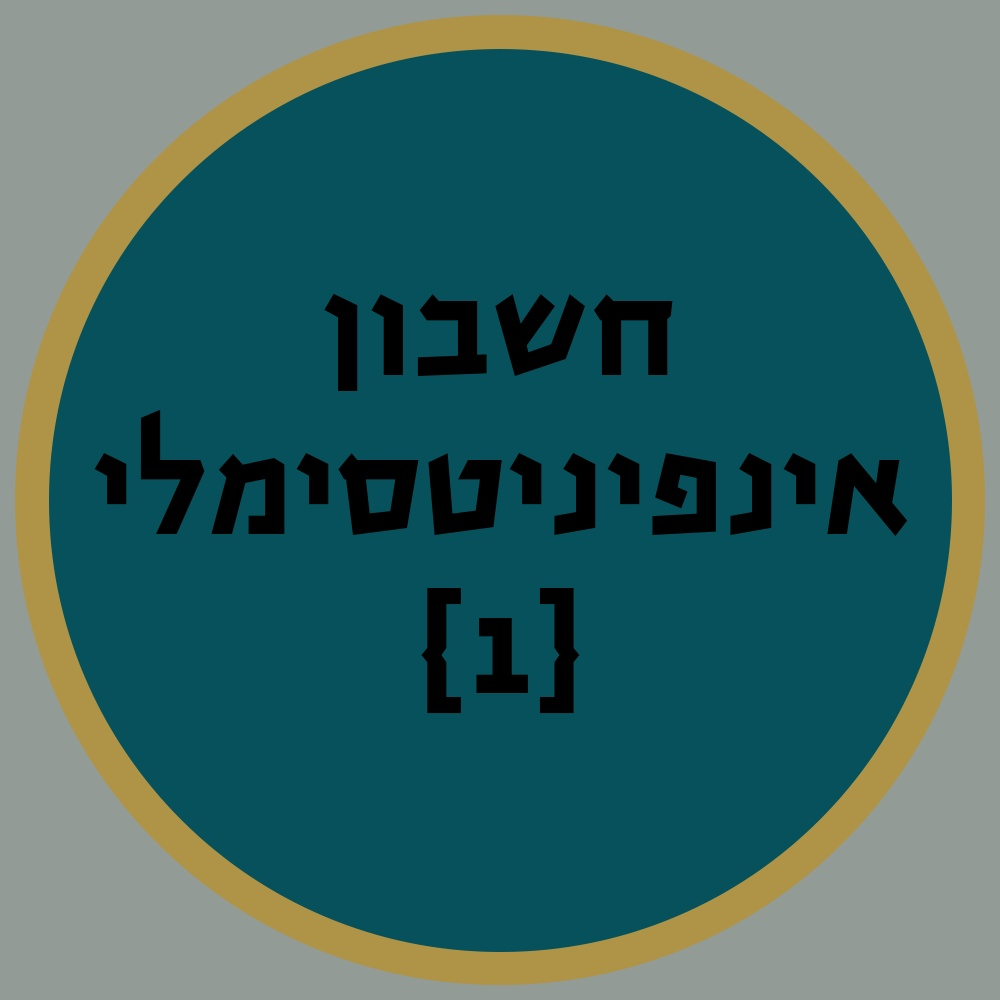
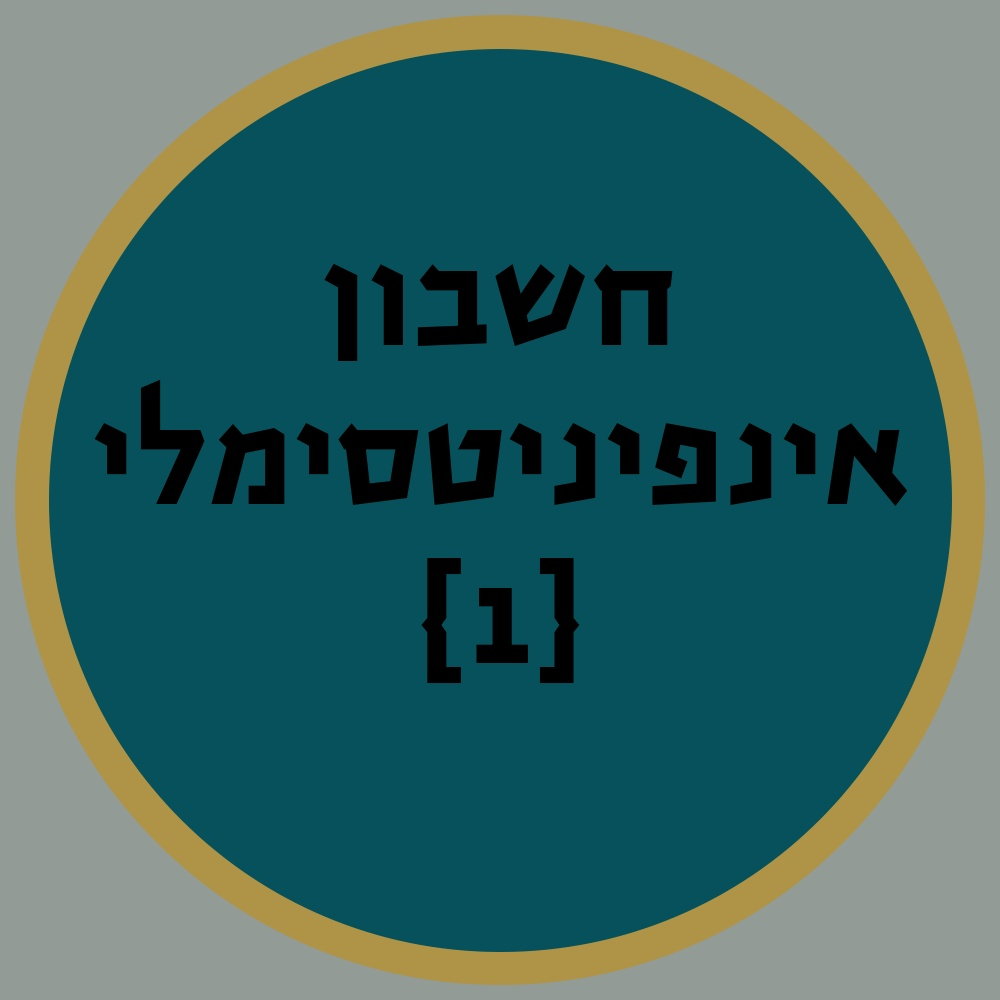
does this look good?

Changed region(s): [[0.093, 0.248, 0.899, 0.713]]

diff --git a/main.py b/main.py
@@ -61,7 +61,7 @@ def TestTextToIcon(Text, TemplateImage, Font, FilePath):
     monospace = ImageFont.truetype(Font,150)
 
     draw.text(
-        (90,250), # text space
+        (90,220), # text space
         Text, # the words themeseves 
         (0, 0, 0), # opacity in rbg ?
         font=monospace, # which font
